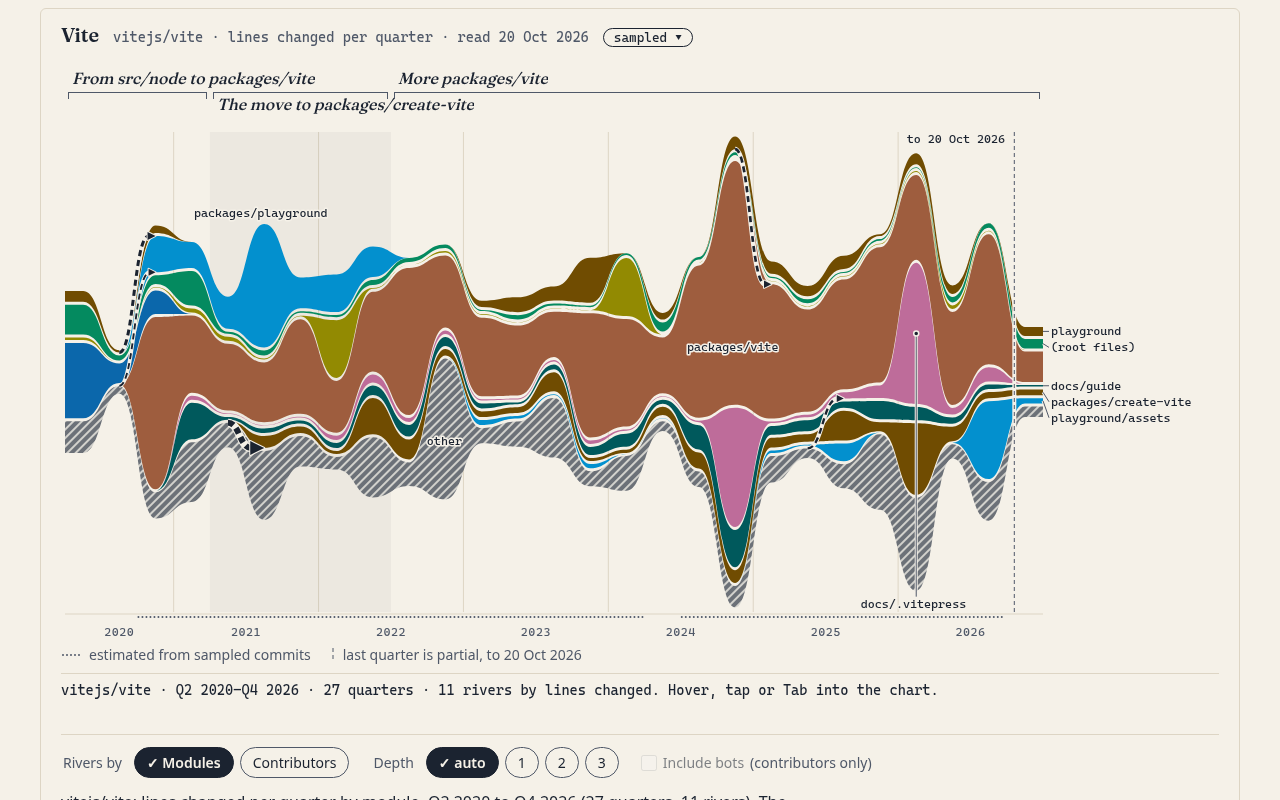
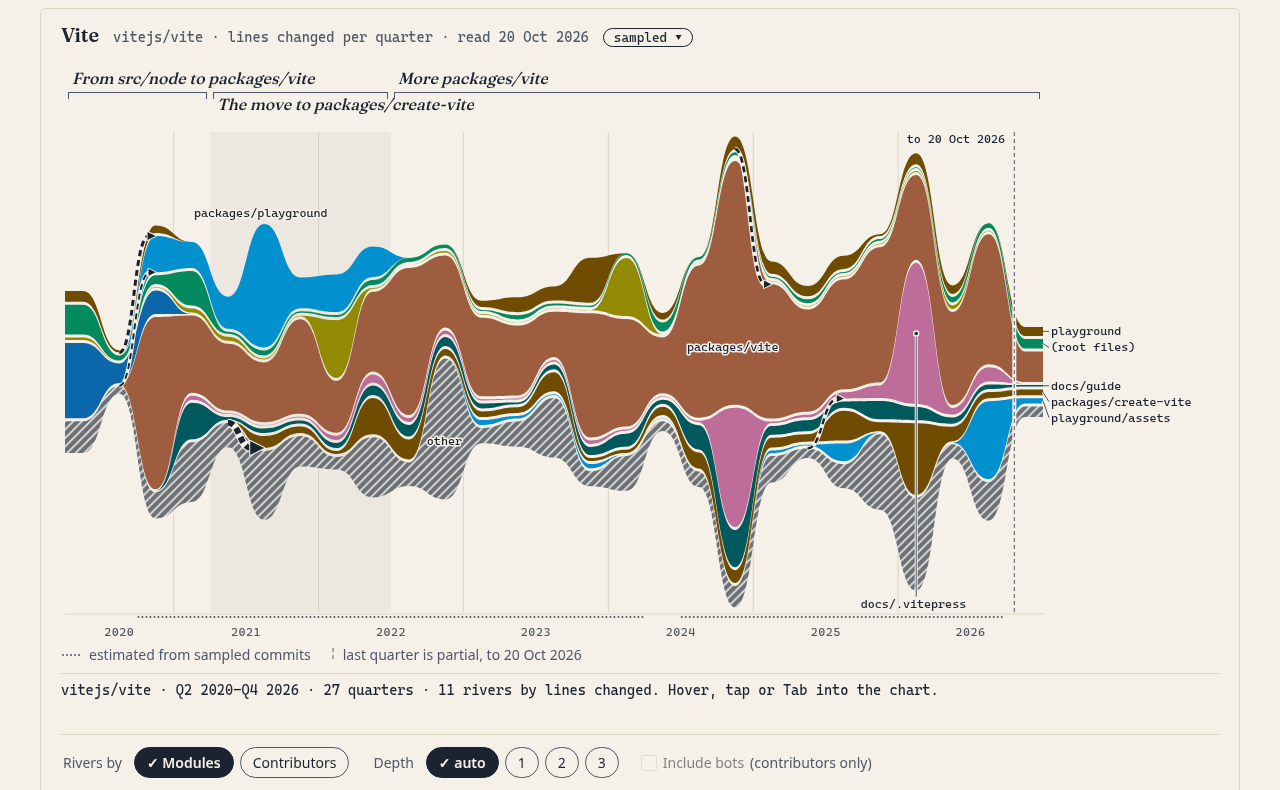
docs: Quick start above the hero, crop hero cleanly, clarify README details

diff --git a/README.md b/README.md
@@ -4,8 +4,6 @@
 
 **Live demo:** coming soon (link after deploy)
 
-<img src="docs/images/hero.png" width="720" alt="The Vite sample: rivers of modules from 2020 to 2026, with packages/vite as the widest river, dashed arrows where files moved between folders, and three named eras above the chart.">
-
 ## Quick start
 
 ```sh
@@ -15,6 +13,8 @@ pnpm dev:worker   # optional, in a second terminal: the API for pasting any publ
 ```
 
 No account and no API key. The built-in samples (Vite, Svelte, Express) render offline. Pasting `owner/name` or a GitHub URL also works without the Worker: the browser then reads GitHub directly, against your own rate limit.
+
+<img src="docs/images/hero.png" width="720" alt="The Vite sample: rivers of modules from 2020 to 2026, with packages/vite as the widest river, dashed arrows where files moved between folders, and three named eras above the chart.">
 
 ## What you can read from it
 
@@ -28,14 +28,14 @@ No account and no API key. The built-in samples (Vite, Svelte, Express) render o
 1. **Read.** The [`fetchRepoAggregate`](src/core/github/fetchRepo.ts) function asks the GitHub REST API for the default branch's history (3 requests to size it up).
 2. **Map paths to modules.** Lockfiles, build output and vendored code are ignored; each file counts at most 2,000 lines per bucket. Folders are kept to depth 3, so the depth control needs no refetch.
 3. **Map commits to contributors.** A contributor is a GitHub login, or a hash of the email address. Merge commits are not counted.
-4. **Bucket by time.** The smallest of week, month, quarter or year that gives at most 24 buckets (48 with a token).
+4. **Bucket by time.** The smallest of week, month, quarter or year that gives at most 24 buckets (48 with a token; the Vite and Svelte samples were built with one, hence their 27 and 41 quarters).
 5. **Draw flows.** A pure layout function turns the buckets into ribbons, transfers and direct labels in SVG. Runtime dependencies are `react` and `react-dom` only.
 
-**Sampling and rate limits.** Unauthenticated GitHub access allows 60 requests per hour. Small repositories are read commit by commit. Larger ones are sampled with one comparison per bucket, which caps a fetch at 55 requests. A "sampled" badge says what was estimated. Results are cached for 24 hours in the Worker (Cloudflare KV) and in your browser.
+**Sampling and rate limits.** Unauthenticated GitHub access allows 60 requests per hour. Small repositories are read commit by commit. Larger ones are sampled with one comparison per bucket, which caps a fetch at 55 requests. A "sampled" badge says what was estimated. Results are cached in the Worker (Cloudflare KV) and in your browser: fresh for 24 h, kept up to 30 days and revalidated.
 
 **The move-finder.** GitHub lists at most 300 files per comparison, which can hide a large reorganisation. When a folder first appears in such a bucket, repo-rivers finds the commit that created it and reads its renames, at about 3 to 6 extra requests per folder.
 
-**Where AI is used: one place, naming eras.** Era boundaries are computed deterministically (an optimal partition of the timeline by module shares and activity). A language model (Workers AI) only writes a short title and note for each era, from a summary of under 2 KB with no person names, no commit messages and no repository owner. The result is cached. Without AI, eras get template names, and the chart works with no eras at all.
+**Where AI is used: one place, naming eras.** Era boundaries are computed deterministically (an optimal partition of the timeline by module shares and activity). A language model (Workers AI) only writes a short title and note for each era, from a summary of at most 2 KB with no person names, no commit messages and no repository owner. The result is cached. Without AI, eras get template names, and the chart works with no eras at all.
 
 More detail: [docs/EXTENDING.md](docs/EXTENDING.md) (public API, adapters, theming) and [docs/viz/rivers.md](docs/viz/rivers.md) (the visual encoding).
 
